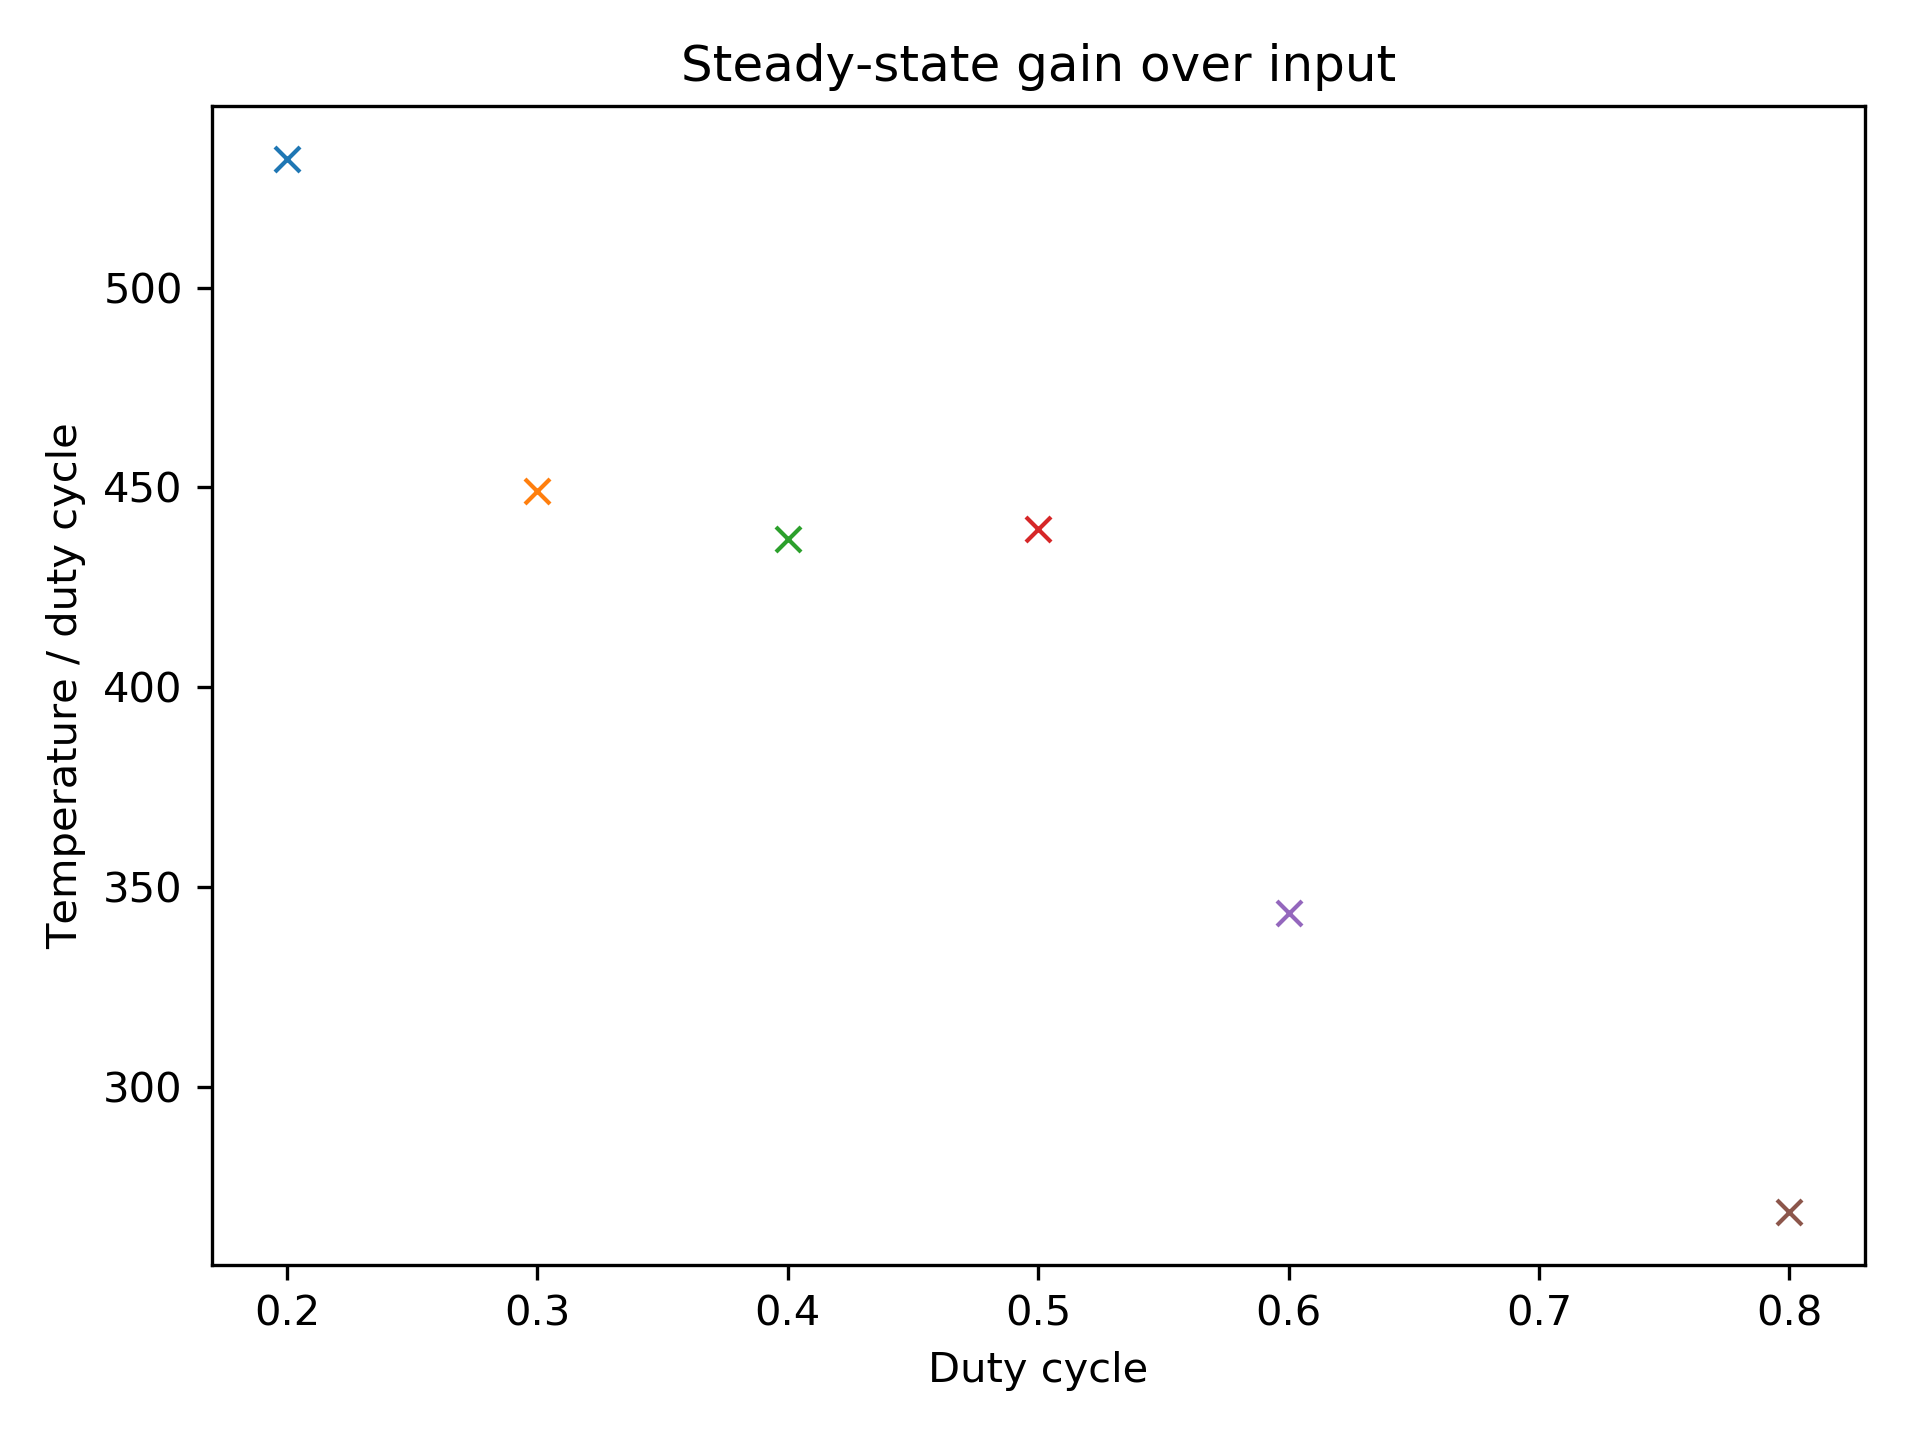
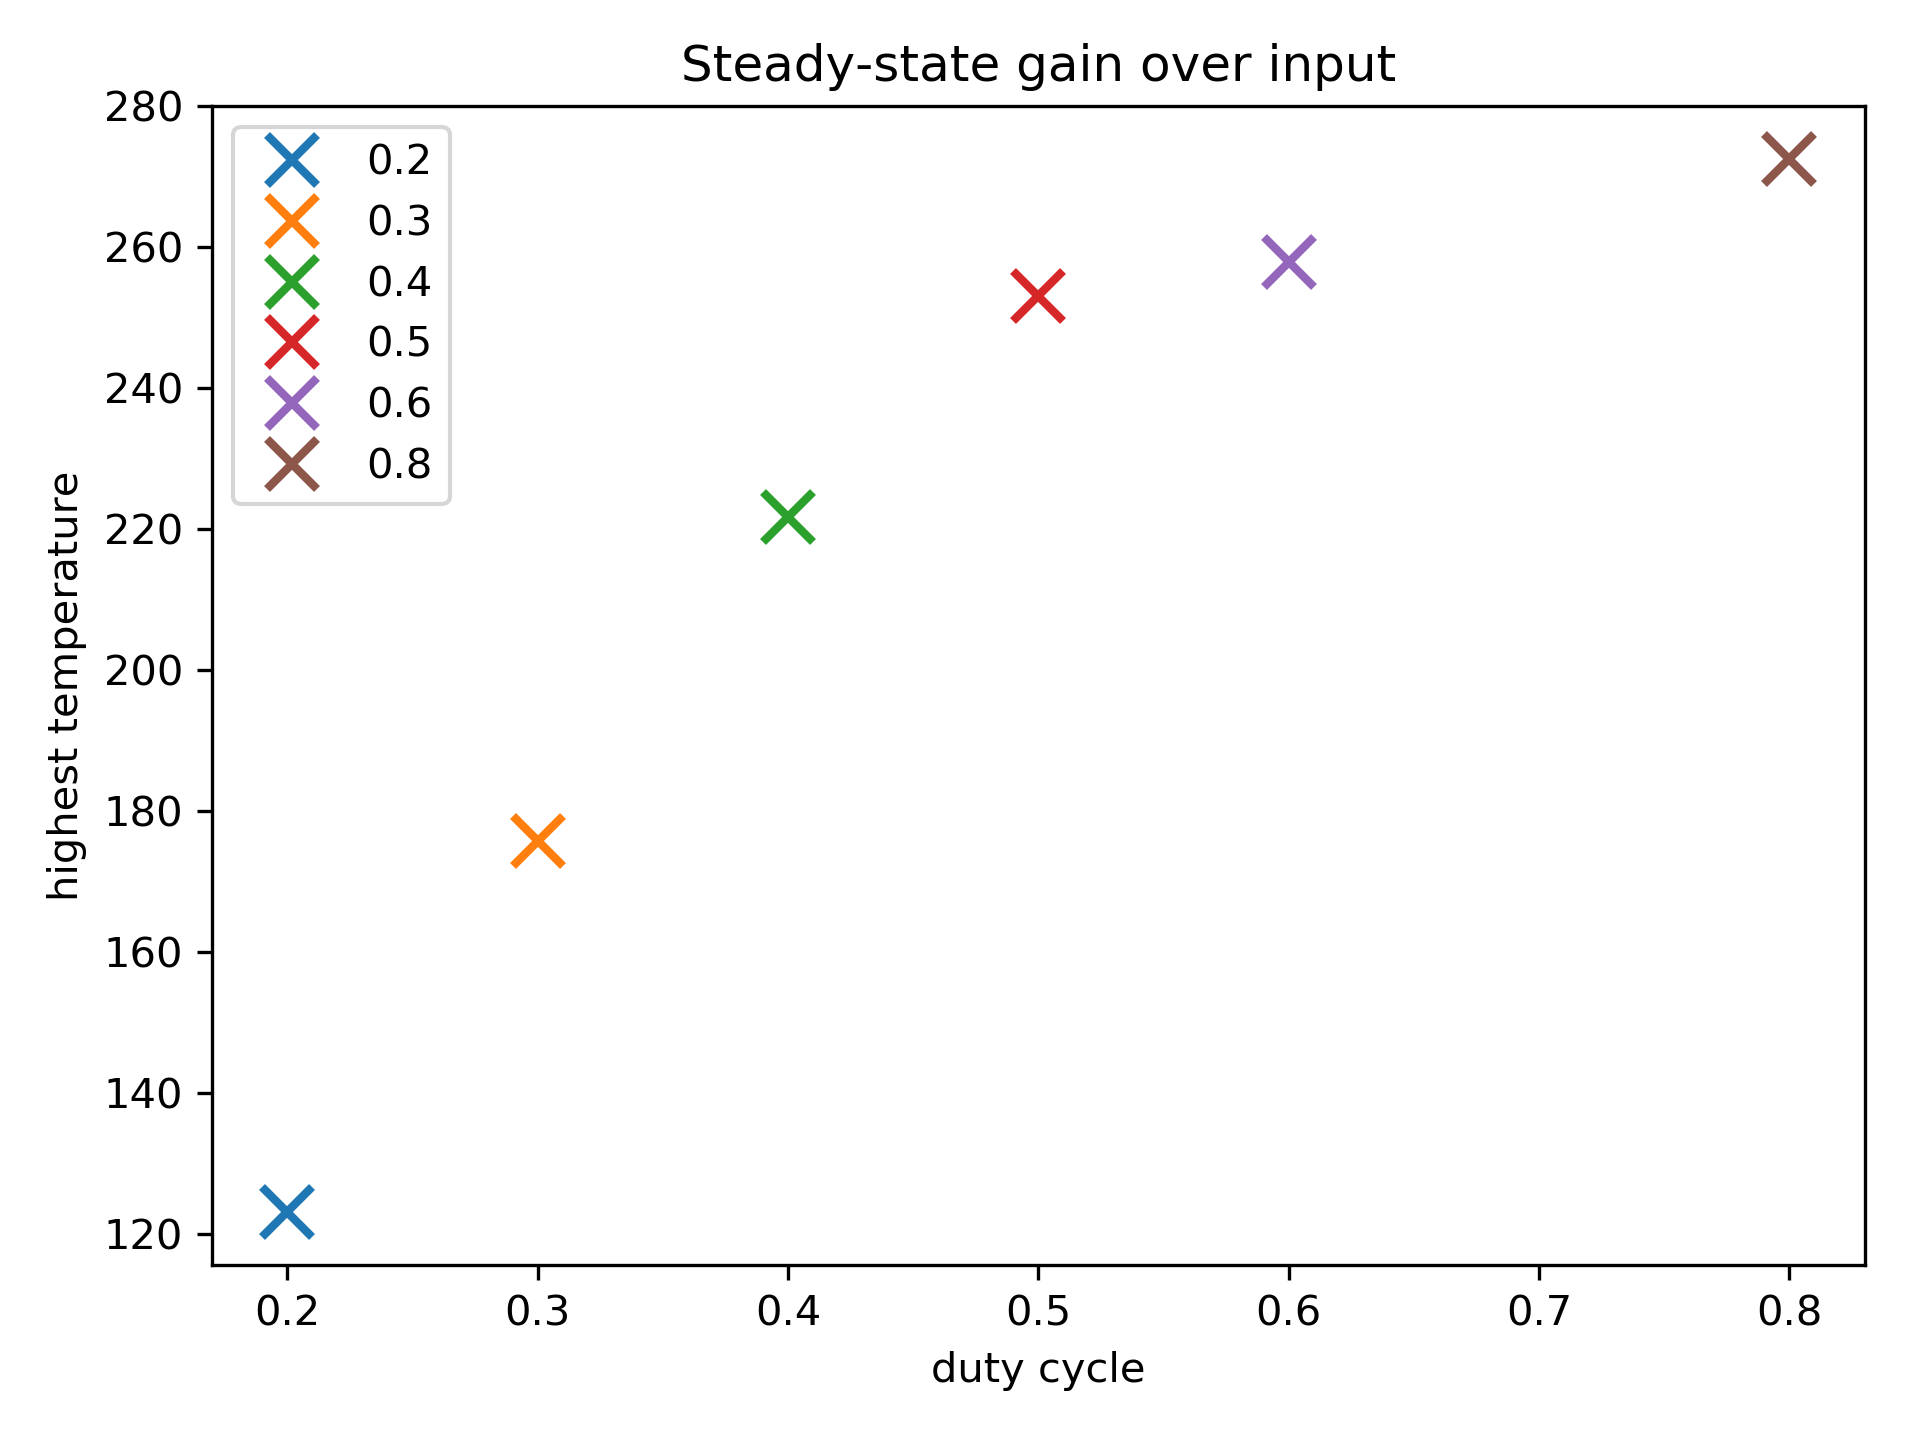
Revision on linearity

diff --git a/ovencontrol/plot_data.py b/ovencontrol/plot_data.py
@@ -13,7 +13,7 @@ def reset_origin(temperature):
     temperature[:] = temperature - (current_origin - TEMPERATURE_ORIGIN)
 
 
-def main():
+def plot_signals():
     tests, test_random = open_data.retrieve_data(os.path.join('..', 'data'))
     fig, ax = plt.subplots()
     for key in sorted(tests.keys()):
@@ -31,13 +31,14 @@ def plot_linearity():
     fig, ax = plt.subplots()
     for key in sorted(tests.keys()):
         res = tests[key]
-        reset_origin(res.temperature)
         max_output = np.max(res.temperature)
-        ax.plot(res.duty_cycle, max_output / res.duty_cycle, 'x')
-    ax.set_xlabel('Duty cycle')
-    ax.set_ylabel('Temperature / duty cycle')
+        ax.plot(res.duty_cycle, max_output, 'x', label=key,
+                markersize=12, markeredgewidth=2)
+    ax.legend()
+    ax.set_xlabel('duty cycle')
+    ax.set_ylabel('highest temperature')
     ax.set_title('Steady-state gain over input')
-    # save(fig, filename='linearity.png')
+    save(fig, filename='linearity.png')
 
 
 def save(fig, filename=None, path=None):
@@ -53,6 +54,6 @@ def save(fig, filename=None, path=None):
 
 
 if __name__ == '__main__':
-    main()
-    # plot_linearity()
+    # plot_signals()
+    plot_linearity()
     plt.show()
